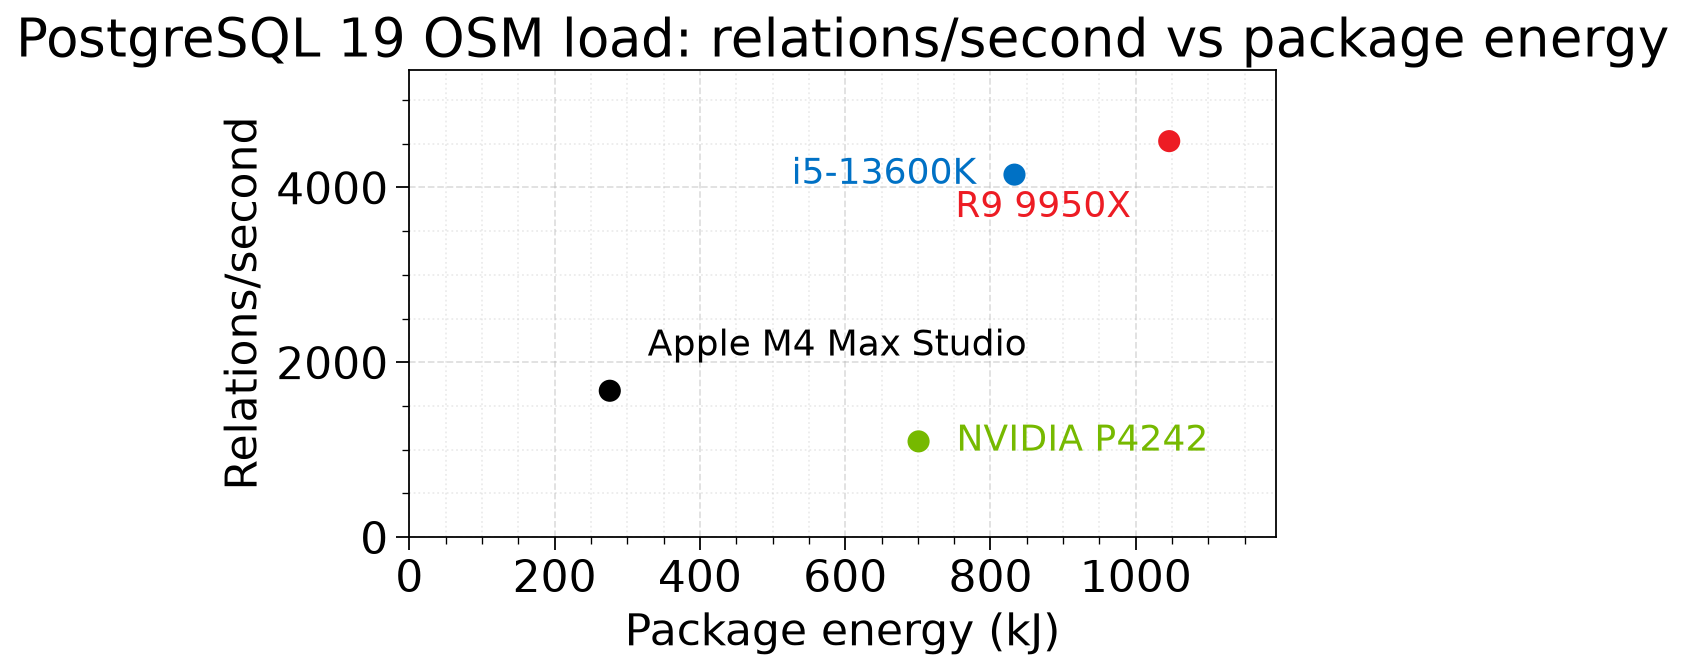
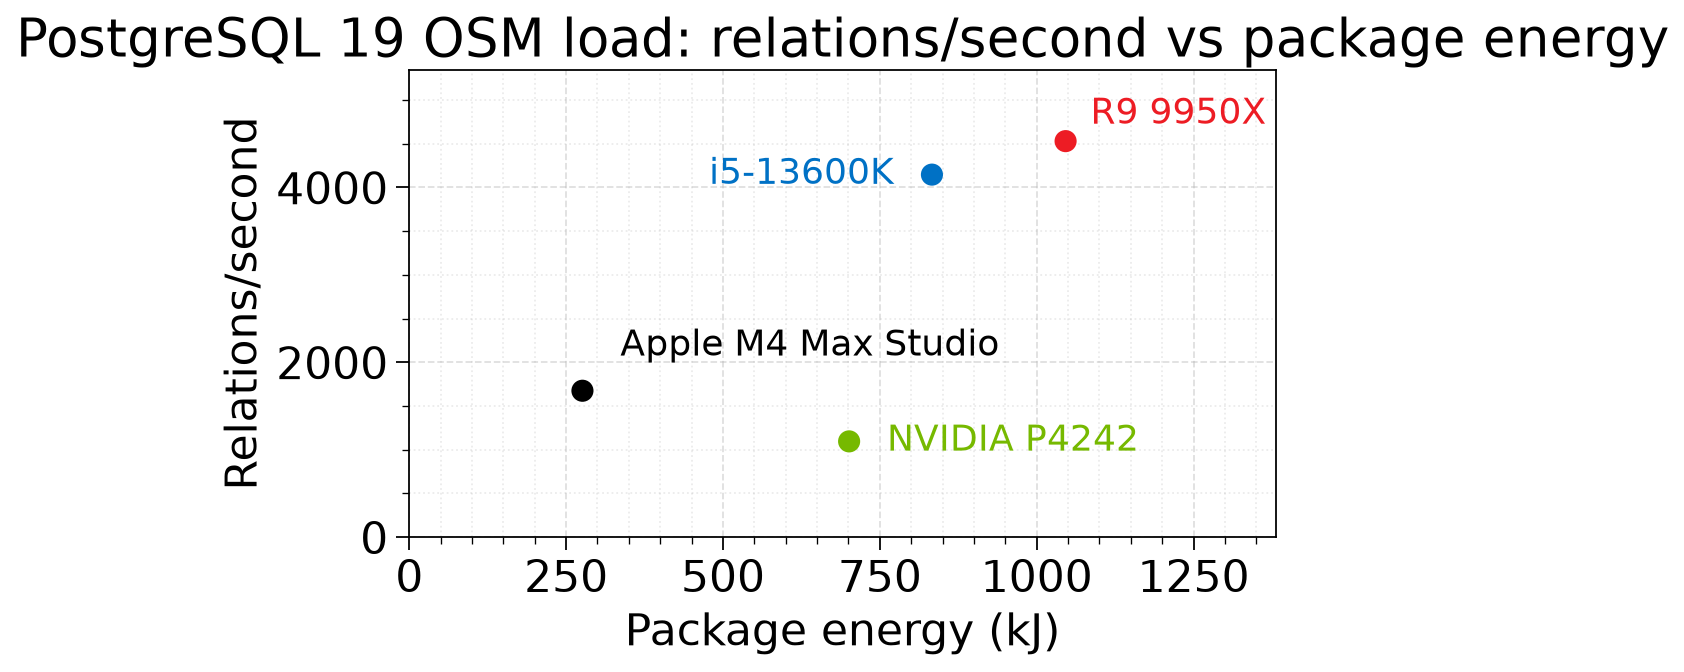
Drop pwr_est/cpu_c from PG19 OSM Power; color by CPU name; nudge 9950X joules label.

diff --git a/reports/osm-relation-power.py b/reports/osm-relation-power.py
@@ -55,17 +55,34 @@ PG19_RELATION_SCATTER_LABEL_OVERRIDES: dict[str, LabelOffset] = {
     "R9 9950X": LabelOffset(-_marker_x_gap(), 0, ha="right", va="center"),
 }
 
-# Same four points as the leaderboard score-vs-kJ chart; i5 and 9950X share the top.
+# Same four points as the leaderboard score-vs-kJ chart; 9950X sits on the right edge.
 RELATION_JOULES_LABEL_OVERRIDES: dict[str, LabelOffset] = {
     "i5-13600K": LabelOffset(-_marker_x_gap(), 0, ha="right", va="center"),
-    "R9 9950X": LabelOffset(-_marker_x_gap(), -22, ha="right", va="top"),
+    "R9 9950X": LabelOffset(_marker_x_gap(), 0, ha="left", va="center"),
     "Apple M4 Max Studio": LabelOffset(_marker_x_gap(), 12, ha="left", va="bottom"),
     "NVIDIA P4242": LabelOffset(_marker_x_gap(), 0, ha="left", va="center"),
 }
 
 
+def cpu_color(cpu: str) -> str:
+    name = str(cpu)
+    if name.startswith("NVIDIA"):
+        return "#76B900"
+    if name[:1] == "A":
+        return "#000000"
+    if name[:1] == "i":
+        return "#0071C5"
+    if name[:1] == "R":
+        return "#ED1C24"
+    return DEFAULT_POINT_COLOR
+
+
 def row_color(row: pd.Series) -> str:
-    return str(row.get("cpu_c", "")).strip() or DEFAULT_POINT_COLOR
+    # Prefer table cpu_c when present (PG18 snapshots); else name-based.
+    from_table = str(row.get("cpu_c", "")).strip()
+    if from_table:
+        return from_table
+    return cpu_color(str(row.get("cpu", "")))
 
 
 def parse_args() -> argparse.Namespace:
@@ -287,7 +304,8 @@ def plot_relation_vs_joules(
     ax.scatter(pts["kj"], pts["rel"], s=SCATTER_MARKER_SIZE, c=colors, zorder=3)
     xmax = float(pts["kj"].max())
     ymax = float(pts["rel"].max())
-    ax.set_xlim(0, xmax * 1.14)
+    # Extra right pad so the rightmost CPU label (9950X) can sit right of its marker.
+    ax.set_xlim(0, xmax * 1.32)
     ax.set_ylim(0, ymax * 1.18)
     ax.set_xlabel("Package energy (kJ)")
     ax.set_ylabel("Relations/second")

diff --git a/reports/osm-power.py b/reports/osm-power.py
@@ -77,8 +77,25 @@ PG19_CHART_LABEL_OVERRIDES: dict[str, dict[str, LabelOffset]] = {
 }
 
 
+def cpu_color(cpu: str) -> str:
+    name = str(cpu)
+    if name.startswith("NVIDIA"):
+        return "#76B900"
+    if name[:1] == "A":
+        return "#000000"
+    if name[:1] == "i":
+        return "#0071C5"
+    if name[:1] == "R":
+        return "#ED1C24"
+    return DEFAULT_POINT_COLOR
+
+
 def row_color(row: pd.Series) -> str:
-    return str(row.get("cpu_c", "")).strip() or DEFAULT_POINT_COLOR
+    # Prefer table cpu_c when present (PG18 snapshots); else name-based.
+    from_table = str(row.get("cpu_c", "")).strip()
+    if from_table:
+        return from_table
+    return cpu_color(str(row.get("cpu", "")))
 
 
 def parse_args() -> argparse.Namespace:

diff --git a/docs/results-summary/pg19/osm-power.md b/docs/results-summary/pg19/osm-power.md
@@ -30,12 +30,12 @@ Sets: siren 71 (`PG19 beta4`); twilight **120** (`PG19 rc1 OSM mem=128G fast`); 
 
 _Query returned 4 rows._
 
-| cpu | mem_gb | ver | score_kips | overall_kips | index_kips | polygon_kips | line_kips | point_kips | node_kps | rel_ps | pwr_est | max_pkg | avg_pkg | kj | fsync | wal_level | wal | avg_write | max_write | avg_read | max_read | cpu_c |
-| --- | --- | --- | --- | --- | --- | --- | --- | --- | --- | --- | --- | --- | --- | --- | --- | --- | --- | --- | --- | --- | --- | --- |
-| R9 9950X | 124 | 19 | 1480 | 719 | 364 | 3925 | 8225 | 3731 | 20555 | 4529 |  | 180 | 70 | 1046 | off | minimal | 20.4 | 79 | 7772 | 68 | 9748 | #ED1C24 |
-| i5-13600K | 125 | 19 | 1213 | 599 | 383 | 3067 | 5827 | 7142 | 14602 | 4146 |  | 150 | 46 | 833 | off | minimal | 52.8 | 58 | 7331 | 41 | 8970 | #0071C5 |
-| Apple M4 Max Studio | 128 | 18 | 561 | 400 | 171 | 1662 | 2699 | 2743 | 12519 | 1674 |  | 35 | 9 | 276 | off | minimal | 11.3 | 325 | 6125 | 325 | 6125 | #000000 |
-| NVIDIA P4242 | 119 | 19 | 521 | 361 | 263 | 2434 | 3694 | 5674 | 16227 | 1095 |  | 89 | 23 | 701 | off | minimal | 10.3 | 124 | 6351 | 110 | 9627 | #76B900 |
+| cpu | mem_gb | ver | score_kips | overall_kips | index_kips | polygon_kips | line_kips | point_kips | node_kps | rel_ps | max_pkg | avg_pkg | kj | fsync | wal_level | wal | avg_write | max_write | avg_read | max_read |
+| --- | --- | --- | --- | --- | --- | --- | --- | --- | --- | --- | --- | --- | --- | --- | --- | --- | --- | --- | --- | --- |
+| R9 9950X | 124 | 19 | 1480 | 719 | 364 | 3925 | 8225 | 3731 | 20555 | 4529 | 180 | 70 | 1046 | off | minimal | 20.4 | 79 | 7772 | 68 | 9748 |
+| i5-13600K | 125 | 19 | 1213 | 599 | 383 | 3067 | 5827 | 7142 | 14602 | 4146 | 150 | 46 | 833 | off | minimal | 52.8 | 58 | 7331 | 41 | 8970 |
+| Apple M4 Max Studio | 128 | 18 | 561 | 400 | 171 | 1662 | 2699 | 2743 | 12519 | 1674 | 35 | 9 | 276 | off | minimal | 11.3 | 325 | 6125 | 325 | 6125 |
+| NVIDIA P4242 | 119 | 19 | 521 | 361 | 263 | 2434 | 3694 | 5674 | 16227 | 1095 | 89 | 23 | 701 | off | minimal | 10.3 | 124 | 6351 | 110 | 9627 |
 
 ## Relation power efficiency
 
@@ -55,9 +55,9 @@ Same **full-run package energy** as the leaderboard score-vs-kJ chart, against *
 
 Regenerate: `MPLBACKEND=Agg MPLCONFIGDIR="$PWD/.matplotlib-cache" .venv-graph/bin/python reports/osm-relation-power.py --pg 19` (reads the relation table below).
 
-| cpu | ver | rel | avg_watts | max_watts | rel_per_watt | kj | cpu_c |
-| --- | --- | --- | --- | --- | --- | --- | --- |
-| Apple M4 Max Studio | 18 | 1674 | 9 | 35 | 186 | 276 | #000000 |
-| i5-13600K | 19 | 4146 | 46 | 150 | 90 | 833 | #0071C5 |
-| R9 9950X | 19 | 4529 | 70 | 180 | 65 | 1046 | #ED1C24 |
-| NVIDIA P4242 | 19 | 1095 | 23 | 89 | 48 | 701 | #76B900 |
+| cpu | ver | rel | avg_watts | max_watts | rel_per_watt | kj |
+| --- | --- | --- | --- | --- | --- | --- |
+| Apple M4 Max Studio | 18 | 1674 | 9 | 35 | 186 | 276 |
+| i5-13600K | 19 | 4146 | 46 | 150 | 90 | 833 |
+| R9 9950X | 19 | 4529 | 70 | 180 | 65 | 1046 |
+| NVIDIA P4242 | 19 | 1095 | 23 | 89 | 48 | 701 |
